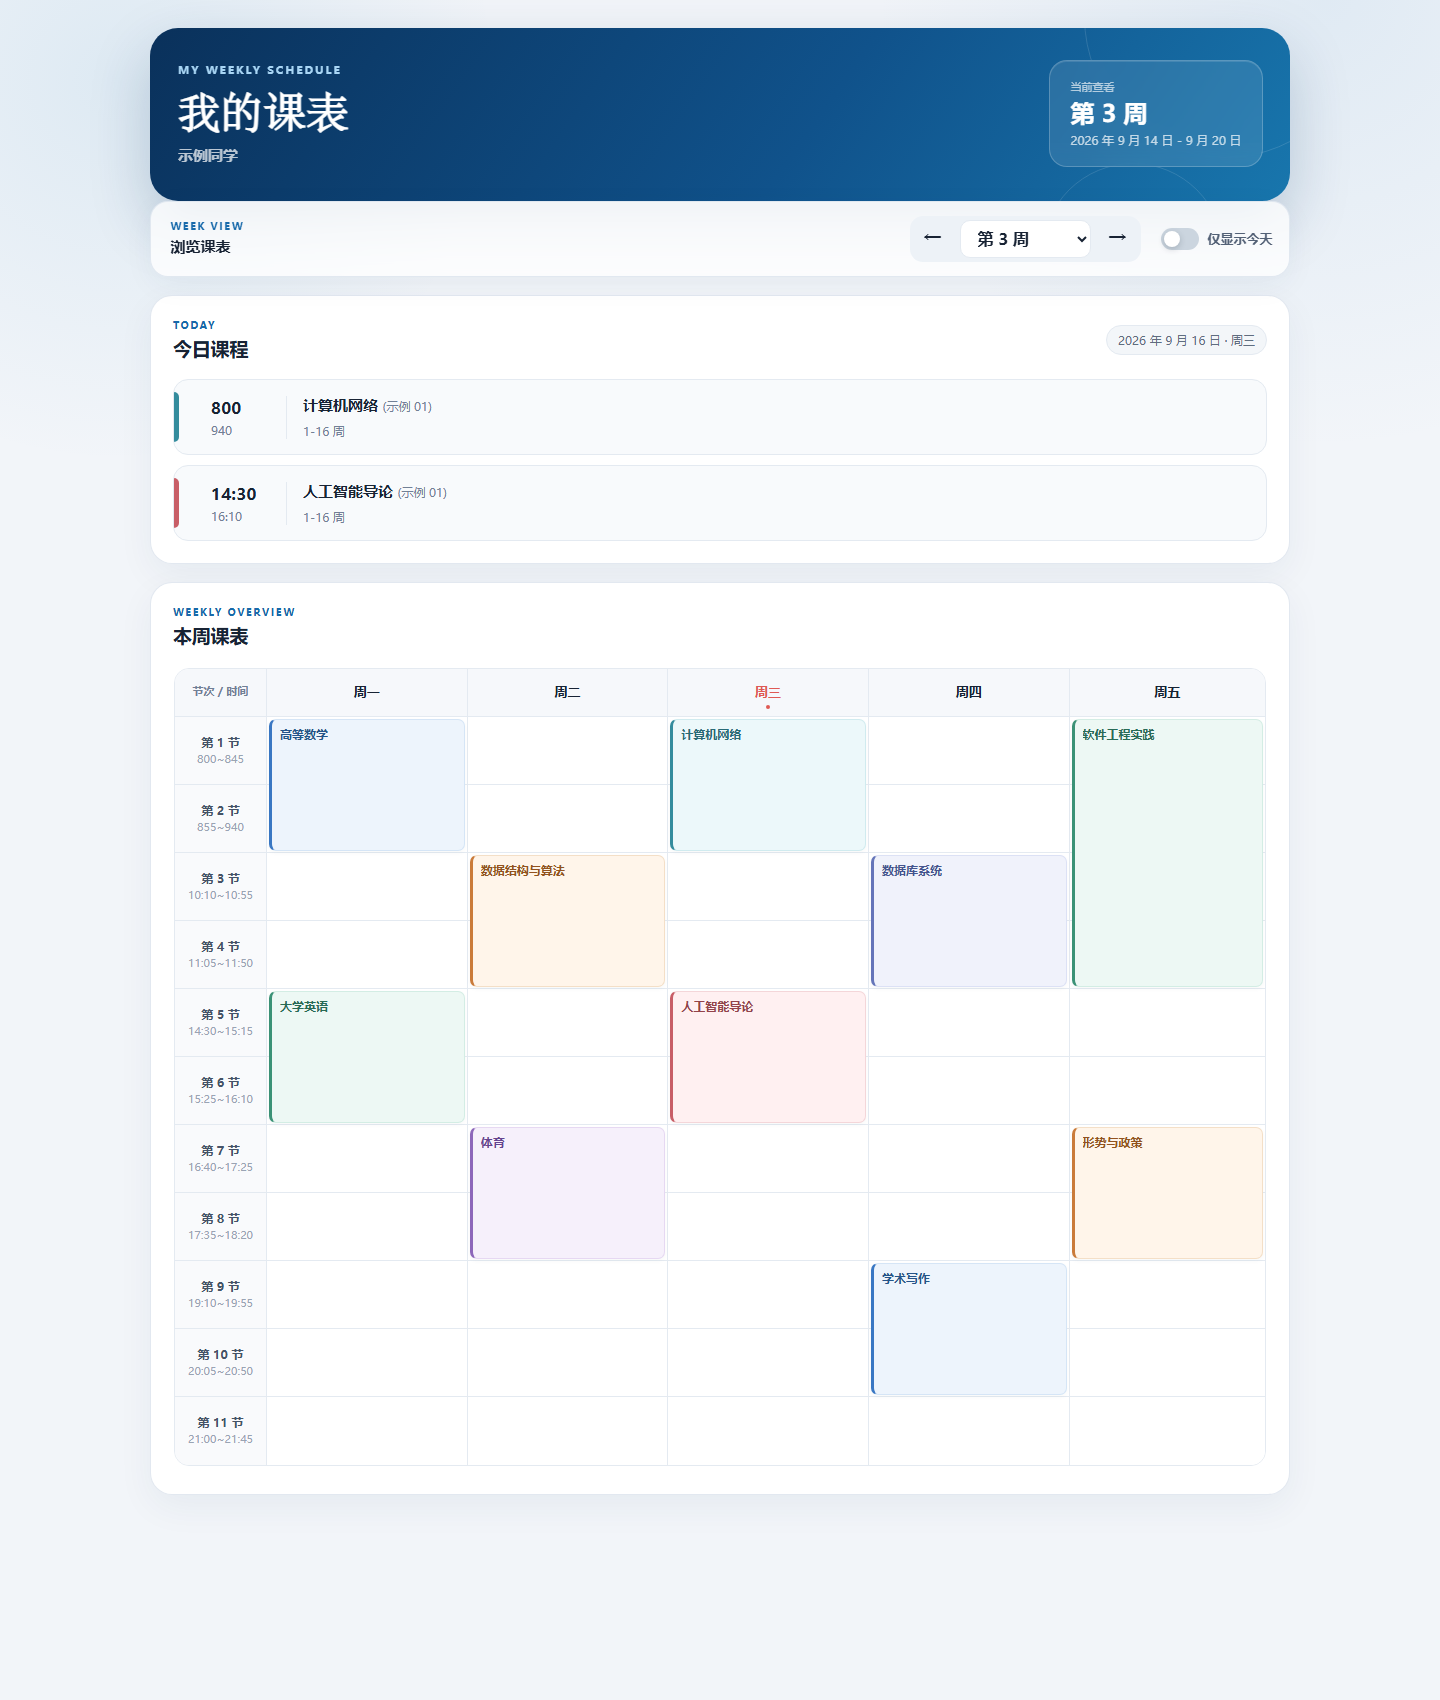
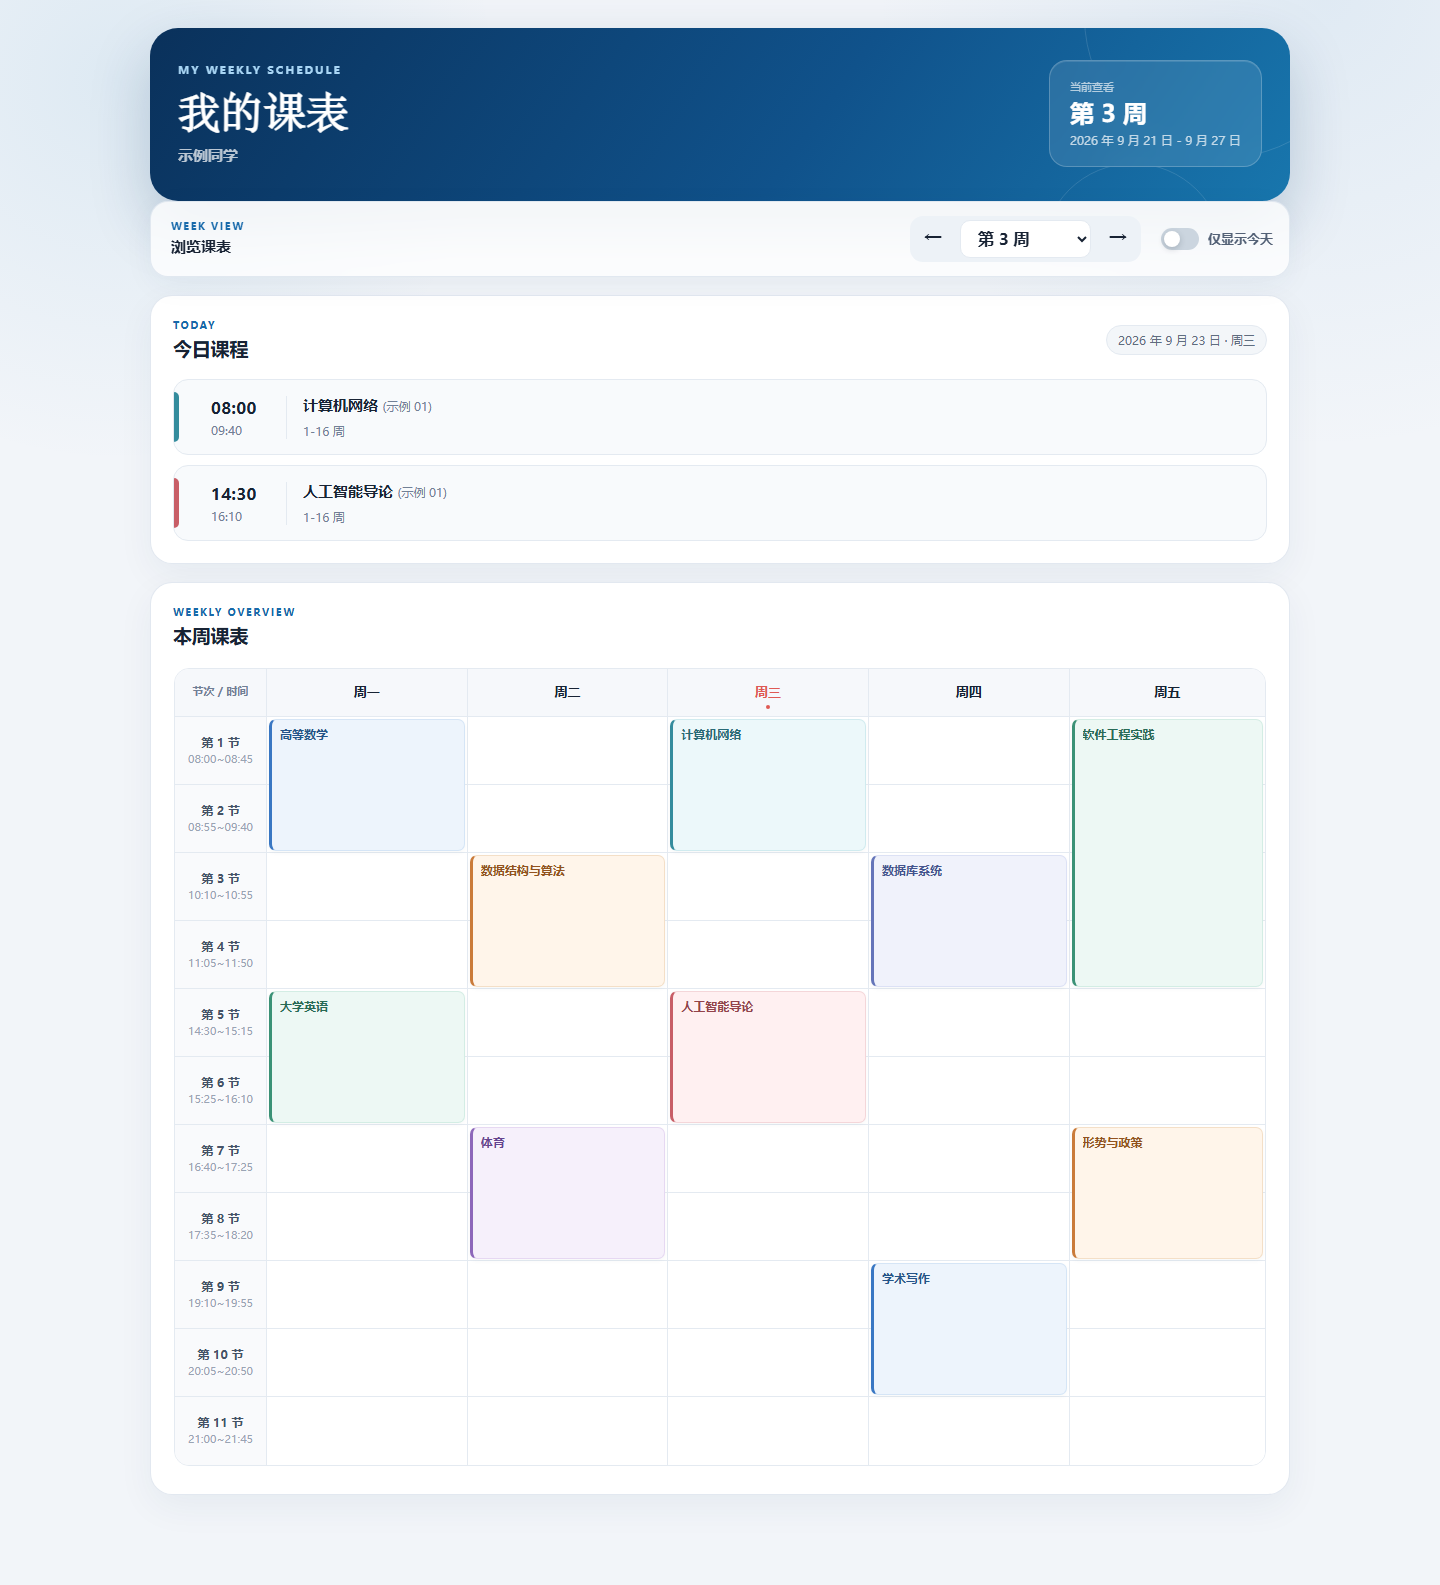
Update schedule demo for week boundaries

diff --git a/docs/schedule-demo.html b/docs/schedule-demo.html
@@ -82,8 +82,8 @@
 </div>
 
 <script>
-const RealDate = Date; window.Date = class extends RealDate { constructor(...args) { super(...(args.length ? args : ['2026-09-16T10:30:00+08:00'])); } static now() { return new RealDate('2026-09-16T10:30:00+08:00').getTime(); } };
-const DATA = {"student":{"name":"示例同学"},"term":{"code":"20261","name":"2026-2027 学年秋季学期"},"defaultWeek":3,"weeks":[1,2,3,4,5,6,7,8,9,10,11,12,13,14,15,16],"periods":[{"JCFADM":"01","DM":"1","MC":"第1节","YWMC":"Class 1","KSSJ":800,"JSSJ":845,"PX":1},{"JCFADM":"01","DM":"2","MC":"第2节","YWMC":"Class 2","KSSJ":855,"JSSJ":940,"PX":2},{"JCFADM":"01","DM":"3","MC":"第3节","YWMC":"Class 3","KSSJ":1010,"JSSJ":1055,"PX":3},{"JCFADM":"01","DM":"4","MC":"第4节","YWMC":"Class 4","KSSJ":1105,"JSSJ":1150,"PX":4},{"JCFADM":"01","DM":"5","MC":"第5节","YWMC":"Class 5","KSSJ":1430,"JSSJ":1515,"PX":5},{"JCFADM":"01","DM":"6","MC":"第6节","YWMC":"Class 6","KSSJ":1525,"JSSJ":1610,"PX":6},{"JCFADM":"01","DM":"7","MC":"第7节","YWMC":"Class 7","KSSJ":1640,"JSSJ":1725,"PX":7},{"JCFADM":"01","DM":"8","MC":"第8节","YWMC":"Class 8","KSSJ":1735,"JSSJ":1820,"PX":8},{"JCFADM":"01","DM":"9","MC":"第9节","YWMC":"Class 9","KSSJ":1910,"JSSJ":1955,"PX":9},{"JCFADM":"01","DM":"10","MC":"第10节","YWMC":"Class 10","KSSJ":2005,"JSSJ":2050,"PX":10},{"JCFADM":"01","DM":"11","MC":"第11节","YWMC":"Class 11","KSSJ":2100,"JSSJ":2145,"PX":11}],"weekdayOrder":[1,2,3,4,5,6,7],"schedule":[{"KCDM":"DEMO01","KCMC":"高等数学","BJMC":"示例 01","XQ":1,"ZCBH":"111111111111111100000000000000","ZCMC":"1-16 周","KSJCDM":1,"JSJCDM":2,"KSSJ":800,"JSSJ":940,"JSXM":"陈老师","JASMC":"嘉庚楼 101"},{"KCDM":"DEMO02","KCMC":"大学英语","BJMC":"示例 01","XQ":1,"ZCBH":"111111111111111100000000000000","ZCMC":"1-16 周","KSJCDM":5,"JSJCDM":6,"KSSJ":1430,"JSSJ":1610,"JSXM":"林老师","JASMC":"南强楼 205"},{"KCDM":"DEMO03","KCMC":"数据结构与算法","BJMC":"示例 01","XQ":2,"ZCBH":"111111111111111100000000000000","ZCMC":"1-16 周","KSJCDM":3,"JSJCDM":4,"KSSJ":1010,"JSSJ":1150,"JSXM":"王老师","JASMC":"海韵教学楼 301"},{"KCDM":"DEMO04","KCMC":"体育","BJMC":"示例 01","XQ":2,"ZCBH":"111111111111111100000000000000","ZCMC":"1-16 周","KSJCDM":7,"JSJCDM":8,"KSSJ":1640,"JSSJ":1820,"JSXM":"周老师","JASMC":"演武田径场"},{"KCDM":"DEMO05","KCMC":"计算机网络","BJMC":"示例 01","XQ":3,"ZCBH":"111111111111111100000000000000","ZCMC":"1-16 周","KSJCDM":1,"JSJCDM":2,"KSSJ":800,"JSSJ":940,"JSXM":"李老师","JASMC":"海韵教学楼 402"},{"KCDM":"DEMO06","KCMC":"人工智能导论","BJMC":"示例 01","XQ":3,"ZCBH":"111111111111111100000000000000","ZCMC":"1-16 周","KSJCDM":5,"JSJCDM":6,"KSSJ":1430,"JSSJ":1610,"JSXM":"许老师","JASMC":"翔安文宣楼 B201"},{"KCDM":"DEMO07","KCMC":"数据库系统","BJMC":"示例 01","XQ":4,"ZCBH":"111111111111111100000000000000","ZCMC":"1-16 周","KSJCDM":3,"JSJCDM":4,"KSSJ":1010,"JSSJ":1150,"JSXM":"赵老师","JASMC":"嘉庚楼 307"},{"KCDM":"DEMO08","KCMC":"学术写作","BJMC":"示例 01","XQ":4,"ZCBH":"111111111111111100000000000000","ZCMC":"1-16 周","KSJCDM":9,"JSJCDM":10,"KSSJ":1910,"JSSJ":2050,"JSXM":"吴老师","JASMC":"南强楼 118"},{"KCDM":"DEMO09","KCMC":"软件工程实践","BJMC":"示例 01","XQ":5,"ZCBH":"111111111111111100000000000000","ZCMC":"1-16 周","KSJCDM":1,"JSJCDM":4,"KSSJ":800,"JSSJ":1150,"JSXM":"郑老师","JASMC":"海韵实验楼 204"},{"KCDM":"DEMO10","KCMC":"形势与政策","BJMC":"示例 01","XQ":5,"ZCBH":"111111111111111100000000000000","ZCMC":"1-16 周","KSJCDM":7,"JSJCDM":8,"KSSJ":1640,"JSSJ":1820,"JSXM":"黄老师","JASMC":"建南大会堂"}],"dayNames":{"1":"星期一","2":"星期二","3":"星期三","4":"星期四","5":"星期五","6":"星期六","7":"星期日"},"dayShort":{"1":"周一","2":"周二","3":"周三","4":"周四","5":"周五","6":"周六","7":"周日"}};
+const RealDate = Date; window.Date = class extends RealDate { constructor(...args) { super(...(args.length ? args : ['2026-09-23T10:30:00+08:00'])); } static now() { return new RealDate('2026-09-23T10:30:00+08:00').getTime(); } };
+const DATA = {"student":{"name":"示例同学"},"term":{"code":"20261","name":"2026-2027 学年秋季学期","startDate":"2026-09-07"},"defaultWeek":3,"weeks":[1,2,3,4,5,6,7,8,9,10,11,12,13,14,15,16],"periods":[{"JCFADM":"01","DM":"1","MC":"第1节","YWMC":"Class 1","KSSJ":800,"JSSJ":845,"PX":1},{"JCFADM":"01","DM":"2","MC":"第2节","YWMC":"Class 2","KSSJ":855,"JSSJ":940,"PX":2},{"JCFADM":"01","DM":"3","MC":"第3节","YWMC":"Class 3","KSSJ":1010,"JSSJ":1055,"PX":3},{"JCFADM":"01","DM":"4","MC":"第4节","YWMC":"Class 4","KSSJ":1105,"JSSJ":1150,"PX":4},{"JCFADM":"01","DM":"5","MC":"第5节","YWMC":"Class 5","KSSJ":1430,"JSSJ":1515,"PX":5},{"JCFADM":"01","DM":"6","MC":"第6节","YWMC":"Class 6","KSSJ":1525,"JSSJ":1610,"PX":6},{"JCFADM":"01","DM":"7","MC":"第7节","YWMC":"Class 7","KSSJ":1640,"JSSJ":1725,"PX":7},{"JCFADM":"01","DM":"8","MC":"第8节","YWMC":"Class 8","KSSJ":1735,"JSSJ":1820,"PX":8},{"JCFADM":"01","DM":"9","MC":"第9节","YWMC":"Class 9","KSSJ":1910,"JSSJ":1955,"PX":9},{"JCFADM":"01","DM":"10","MC":"第10节","YWMC":"Class 10","KSSJ":2005,"JSSJ":2050,"PX":10},{"JCFADM":"01","DM":"11","MC":"第11节","YWMC":"Class 11","KSSJ":2100,"JSSJ":2145,"PX":11}],"weekdayOrder":[1,2,3,4,5,6,7],"schedule":[{"KCDM":"DEMO01","KCMC":"高等数学","BJMC":"示例 01","XQ":1,"ZCBH":"111111111111111100000000000000","ZCMC":"1-16 周","KSJCDM":1,"JSJCDM":2,"KSSJ":800,"JSSJ":940,"JSXM":"陈老师","JASMC":"嘉庚楼 101"},{"KCDM":"DEMO02","KCMC":"大学英语","BJMC":"示例 01","XQ":1,"ZCBH":"111111111111111100000000000000","ZCMC":"1-16 周","KSJCDM":5,"JSJCDM":6,"KSSJ":1430,"JSSJ":1610,"JSXM":"林老师","JASMC":"南强楼 205"},{"KCDM":"DEMO03","KCMC":"数据结构与算法","BJMC":"示例 01","XQ":2,"ZCBH":"111111111111111100000000000000","ZCMC":"1-16 周","KSJCDM":3,"JSJCDM":4,"KSSJ":1010,"JSSJ":1150,"JSXM":"王老师","JASMC":"海韵教学楼 301"},{"KCDM":"DEMO04","KCMC":"体育","BJMC":"示例 01","XQ":2,"ZCBH":"111111111111111100000000000000","ZCMC":"1-16 周","KSJCDM":7,"JSJCDM":8,"KSSJ":1640,"JSSJ":1820,"JSXM":"周老师","JASMC":"演武田径场"},{"KCDM":"DEMO05","KCMC":"计算机网络","BJMC":"示例 01","XQ":3,"ZCBH":"111111111111111100000000000000","ZCMC":"1-16 周","KSJCDM":1,"JSJCDM":2,"KSSJ":800,"JSSJ":940,"JSXM":"李老师","JASMC":"海韵教学楼 402"},{"KCDM":"DEMO06","KCMC":"人工智能导论","BJMC":"示例 01","XQ":3,"ZCBH":"111111111111111100000000000000","ZCMC":"1-16 周","KSJCDM":5,"JSJCDM":6,"KSSJ":1430,"JSSJ":1610,"JSXM":"许老师","JASMC":"翔安文宣楼 B201"},{"KCDM":"DEMO07","KCMC":"数据库系统","BJMC":"示例 01","XQ":4,"ZCBH":"111111111111111100000000000000","ZCMC":"1-16 周","KSJCDM":3,"JSJCDM":4,"KSSJ":1010,"JSSJ":1150,"JSXM":"赵老师","JASMC":"嘉庚楼 307"},{"KCDM":"DEMO08","KCMC":"学术写作","BJMC":"示例 01","XQ":4,"ZCBH":"111111111111111100000000000000","ZCMC":"1-16 周","KSJCDM":9,"JSJCDM":10,"KSSJ":1910,"JSSJ":2050,"JSXM":"吴老师","JASMC":"南强楼 118"},{"KCDM":"DEMO09","KCMC":"软件工程实践","BJMC":"示例 01","XQ":5,"ZCBH":"111111111111111100000000000000","ZCMC":"1-16 周","KSJCDM":1,"JSJCDM":4,"KSSJ":800,"JSSJ":1150,"JSXM":"郑老师","JASMC":"海韵实验楼 204"},{"KCDM":"DEMO10","KCMC":"形势与政策","BJMC":"示例 01","XQ":5,"ZCBH":"111111111111111100000000000000","ZCMC":"1-16 周","KSJCDM":7,"JSJCDM":8,"JSXM":"黄老师","JASMC":"建南大会堂"}],"dayNames":{"1":"星期一","2":"星期二","3":"星期三","4":"星期四","5":"星期五","6":"星期六","7":"星期日"},"dayShort":{"1":"周一","2":"周二","3":"周三","4":"周四","5":"周五","6":"周六","7":"周日"}};
 const $ = (s)=>document.querySelector(s);
 const nameMap = {}; DATA.dayShort && Object.entries(DATA.dayShort).forEach(([k,v])=>nameMap[+k]=v);
 function prettyText(s){ return String(s||'').replace(/([\u4e00-\u9fff])([A-Za-z0-9])/g,'$1 $2').replace(/([A-Za-z0-9])([\u4e00-\u9fff])/g,'$1 $2'); }
@@ -92,6 +92,11 @@ function dateLabel(d){
   return d.getFullYear()+' 年 '+(d.getMonth()+1)+' 月 '+d.getDate()+' 日 · '+day;
 }
 function weekRangeLabel(week){
+  if(week==='before'){
+    const monday = new Date(DATA.term.startDate+'T00:00:00');
+    return '开学日期：'+monday.getFullYear()+' 年 '+(monday.getMonth()+1)+' 月 '+monday.getDate()+' 日';
+  }
+  if(week==='after') return '本学期已结束';
   let monday;
   if(DATA.term.startDate){
     monday = new Date(DATA.term.startDate+'T00:00:00');
@@ -148,23 +153,39 @@ function byTime(a,b){ return (a.KSSJ||0)-(b.KSSJ||0); }
 // 周次下拉
 (function(){
   const sel = $('#weekSel');
+  const before = document.createElement('option'); before.value='before'; before.textContent='未开学'; sel.appendChild(before);
   DATA.weeks.forEach(w=>{ const o=document.createElement('option'); o.value=w; o.textContent='第 '+w+' 周'; sel.appendChild(o); });
+  const after = document.createElement('option'); after.value='after'; after.textContent='已放假'; sel.appendChild(after);
   sel.value = DATA.defaultWeek;
   sel.addEventListener('change', render);
   $('#btnPrev').addEventListener('click', ()=>step(-1));
   $('#btnNext').addEventListener('click', ()=>step(1));
-  function step(d){ const cur=+sel.value; let n=cur+d; if(n<DATA.weeks[0])n=DATA.weeks[0]; if(n>DATA.weeks[DATA.weeks.length-1])n=DATA.weeks[DATA.weeks.length-1]; sel.value=n; render(); }
+  function step(d){
+    const cur=sel.value;
+    if(cur==='before' && d>0){ sel.value=DATA.weeks[0]; }
+    else if(cur==='after' && d<0){ sel.value=DATA.weeks[DATA.weeks.length-1]; }
+    else if(cur==='before' || cur==='after'){ return; }
+    else {
+      const first=DATA.weeks[0], last=DATA.weeks[DATA.weeks.length-1], n=+cur+d;
+      if(n<first) sel.value='before';
+      else if(n>last) sel.value='after';
+      else sel.value=n;
+    }
+    render();
+  }
   $('#onlyToday').addEventListener('change', render);
 })();
 
 function render(){
-  const week = +$('#weekSel').value;
+  const selected = $('#weekSel').value;
+  const week = +selected;
+  const status = selected==='before' || selected==='after' ? selected : null;
   const onlyToday = $('#onlyToday').checked;
   const dayCols = DATA.weekdayOrder.filter(xq=>+xq>=1 && +xq<=5);
   // 本周有课的课程
-  const weekCourses = DATA.schedule.filter(c=>activeWeek(c, week) && +c.XQ>=1 && +c.XQ<=5);
-  $('#heroWeek').textContent = '第 '+week+' 周';
-  $('#heroWeekRange').textContent = weekRangeLabel(week);
+  const weekCourses = status ? [] : DATA.schedule.filter(c=>activeWeek(c, week) && +c.XQ>=1 && +c.XQ<=5);
+  $('#heroWeek').textContent = status==='before' ? '未开学' : status==='after' ? '已放假' : '第 '+week+' 周';
+  $('#heroWeekRange').textContent = weekRangeLabel(status || week);
   renderToday(weekCourses, week, onlyToday);
   renderGrid(week, weekCourses, dayCols, onlyToday);
 }
